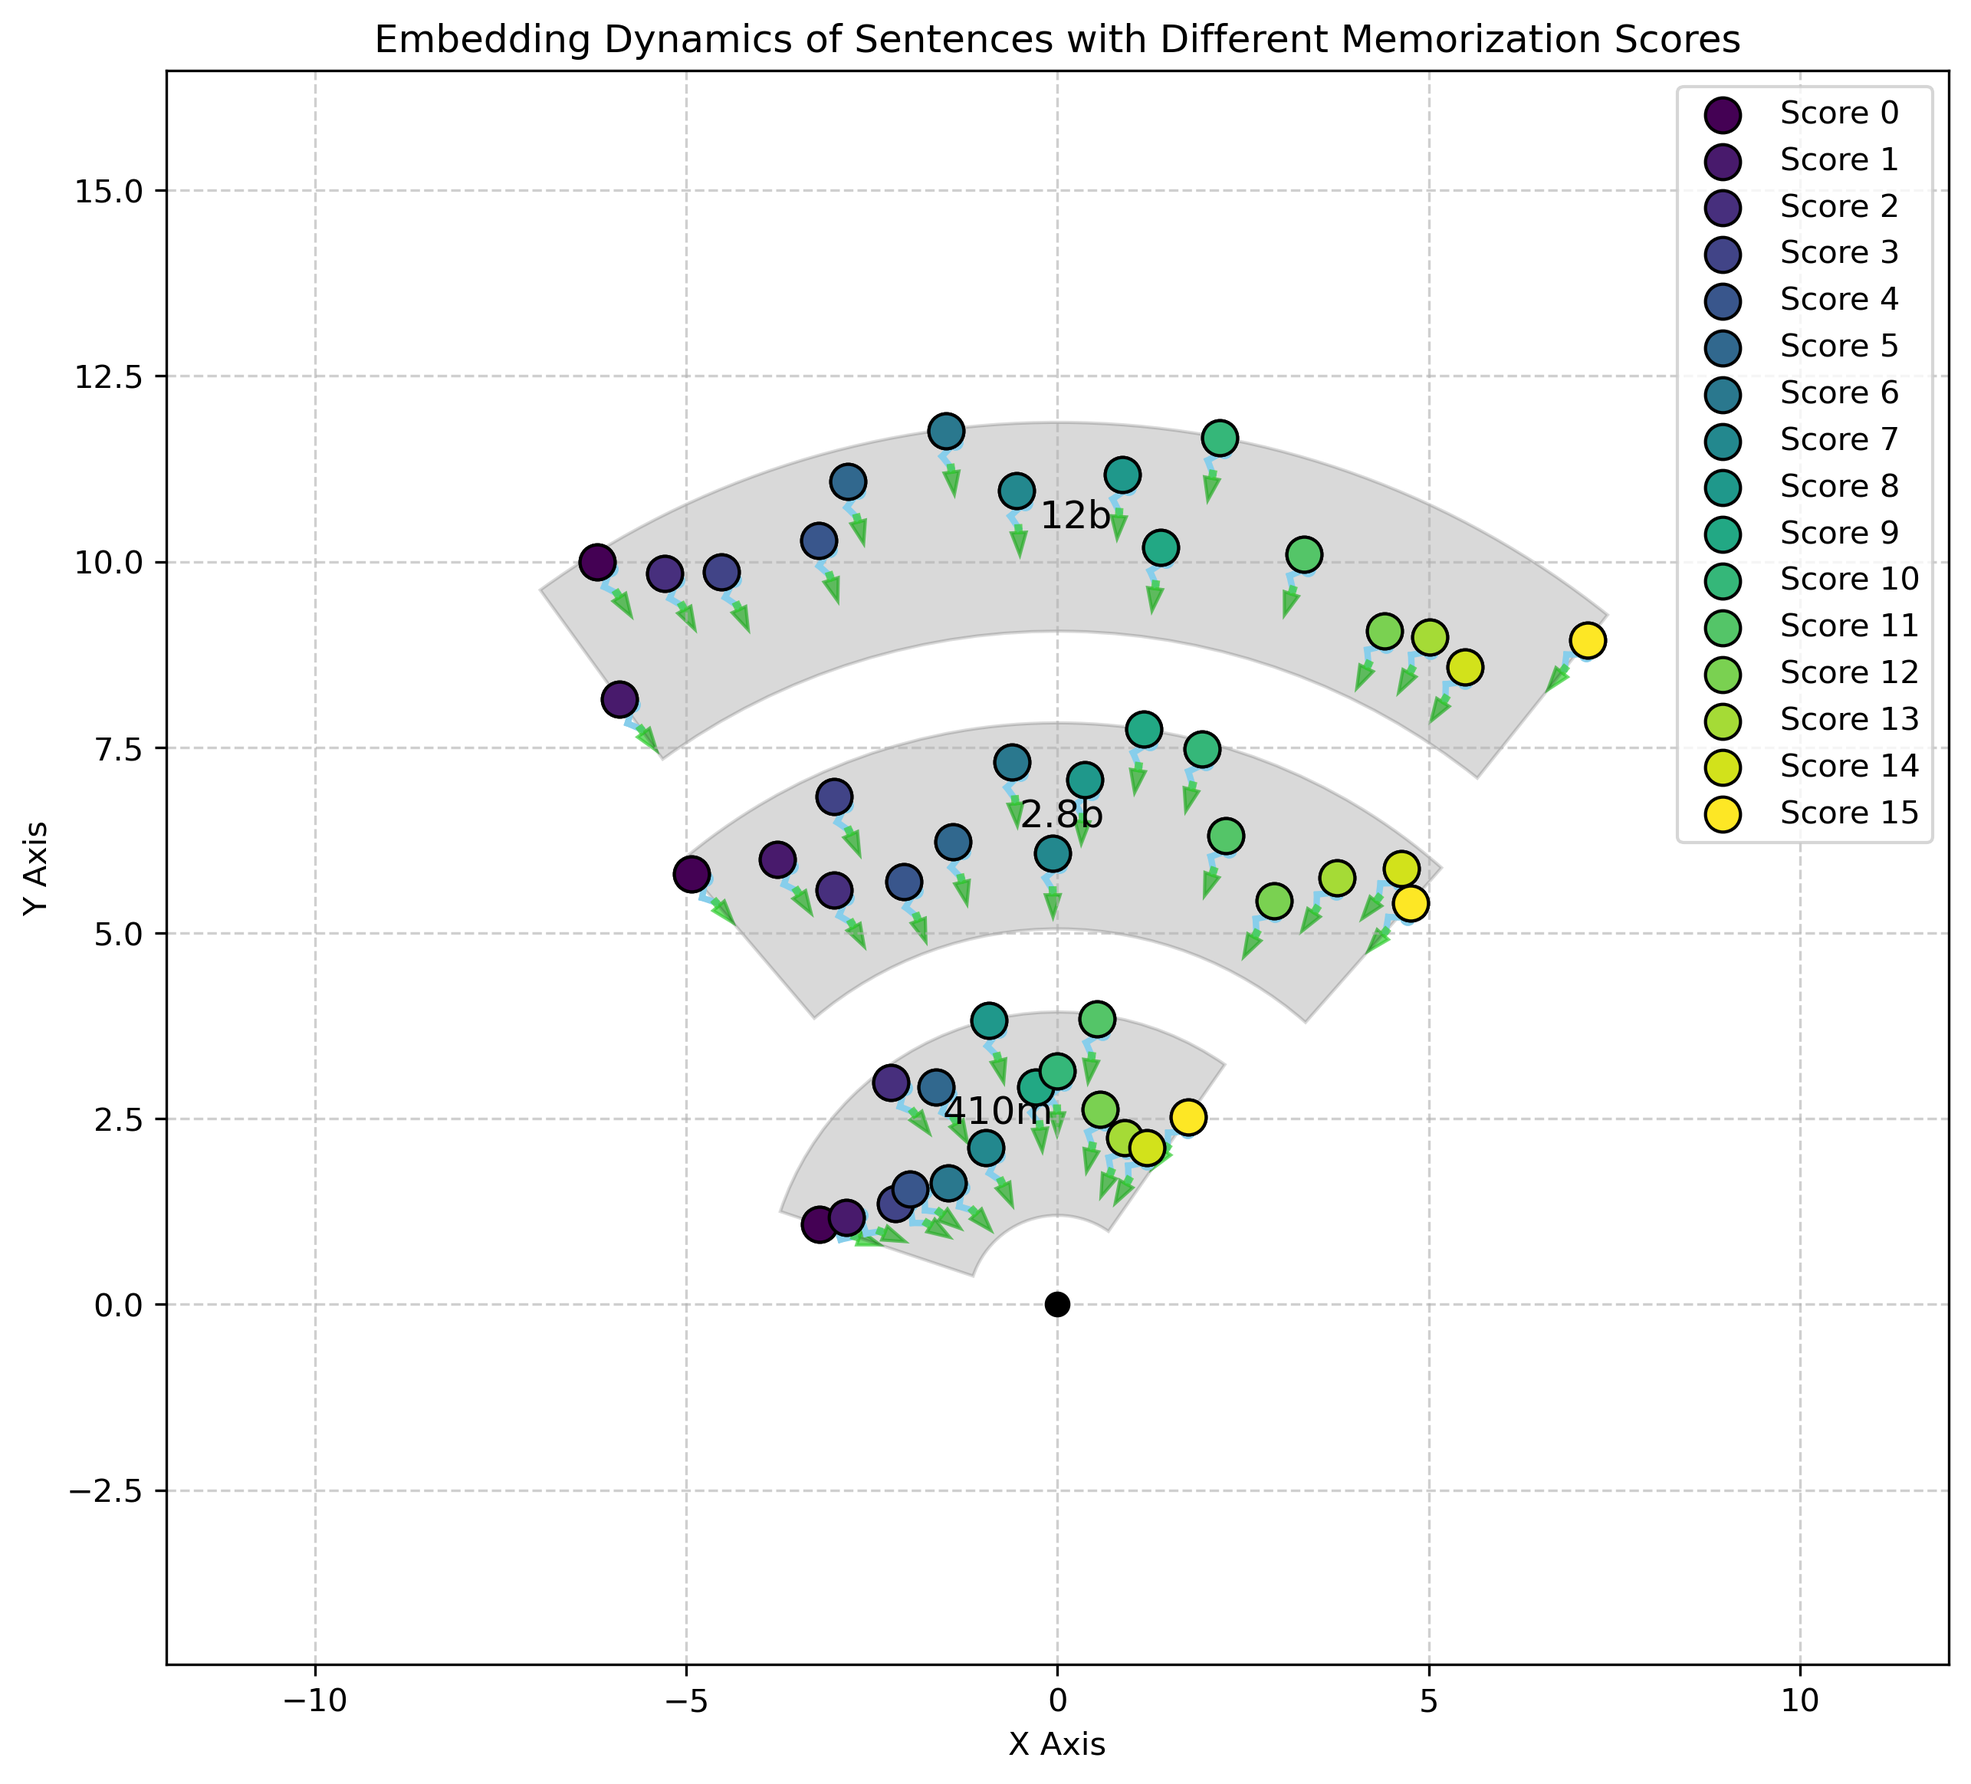
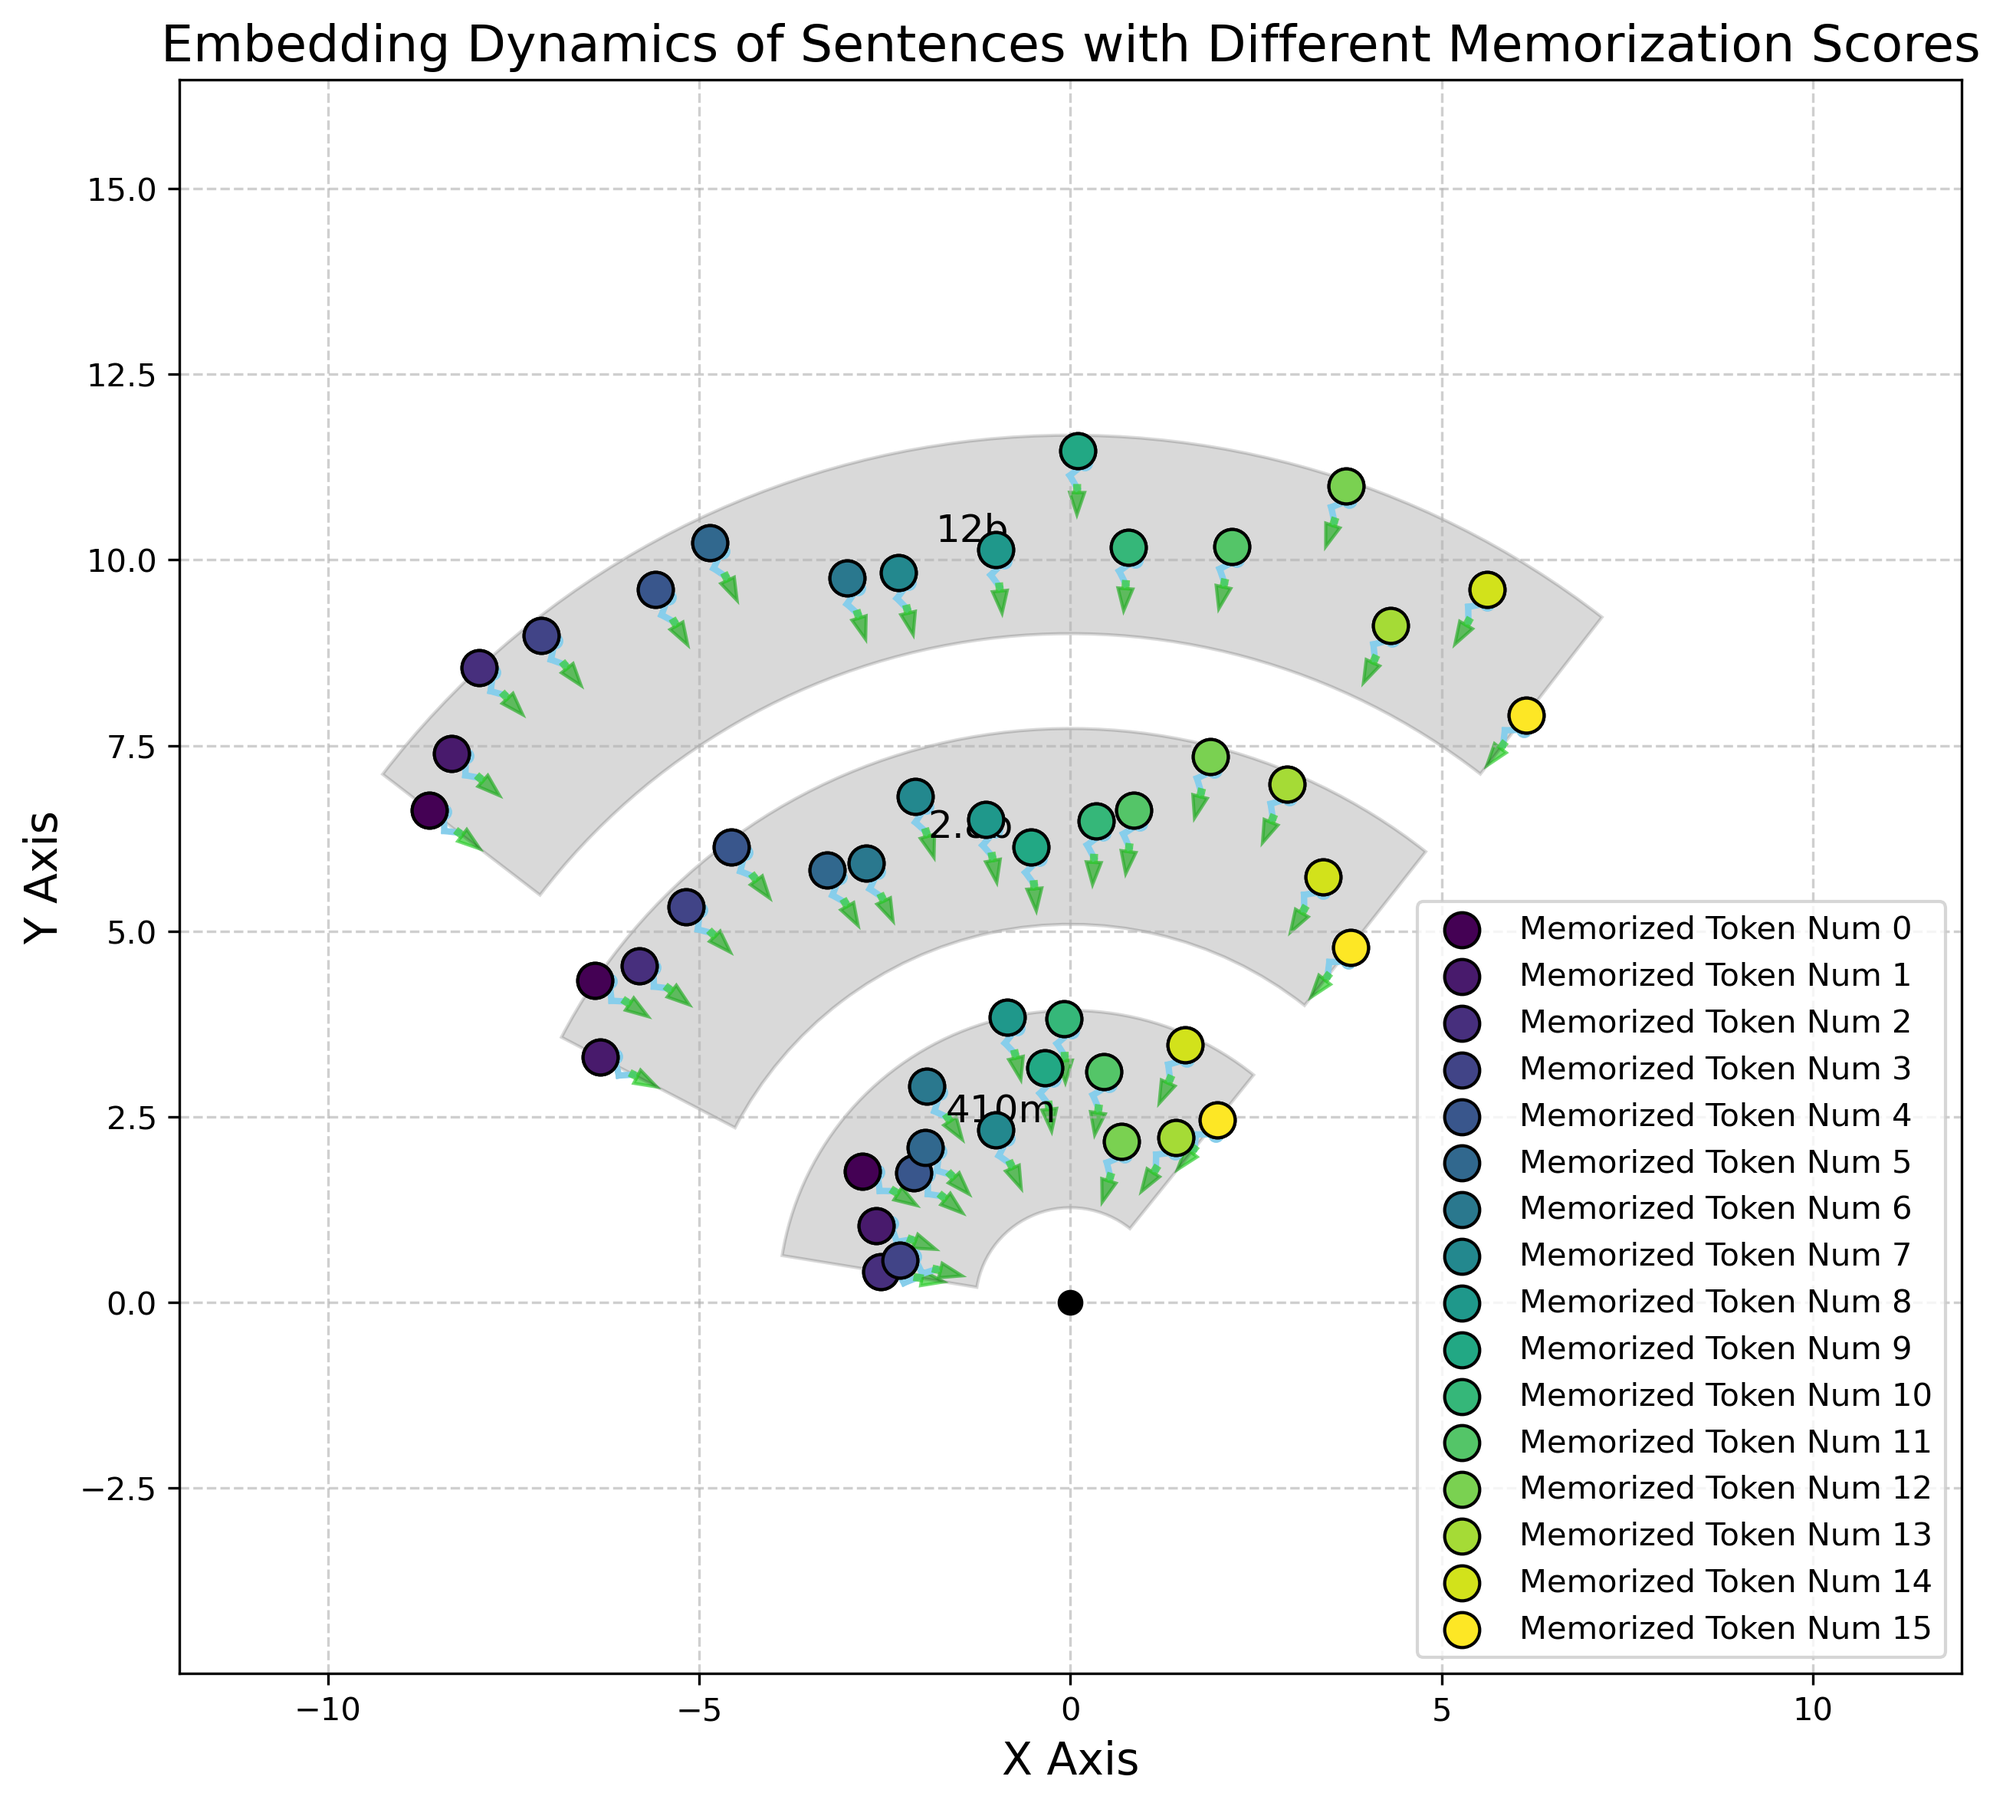
correct file nameg

diff --git a/prediction_inference.py b/prediction_inference.py
@@ -173,42 +173,46 @@ with torch.no_grad():  # Do not calculate gradient since we are only evaluating
         #classificaiton_results = classificaiton_results.float().sum()
 f.close()
 print(memorized_dict)
-#
-# prediction_results = {0.0625: 54, 0.25: 13, 0.375: 16, 0.9375: 27, 0.6875: 22, 0.0: 105, 0.8125: 19, 0.4375: 12,
-#                       0.625: 20, 0.75: 18, 0.1875: 25, 0.875: 25, 0.5625: 9, 0.125: 30, 0.5: 20, 0.3125: 15, 1.0: 1}
-# prediction_results_1b = {0.75: 19, 0.1875: 17, 0.5625: 11, 0.0625: 60, 0.0: 93, 0.3125: 21, 0.9375: 22, 0.125: 28,
-#                          0.4375: 17, 0.875: 29, 0.25: 19, 0.8125: 24, 0.5: 21, 0.625: 19, 0.375: 25, 0.6875: 18, 1.0: 2}
-# prediction_results_70m = {0.5625: 20, 0.8125: 36, 0.0: 131, 0.875: 45, 0.3125: 16, 0.25: 17, 0.75: 35, 0.625: 38,
-#                           0.0625: 76, 0.4375: 20, 0.375: 21, 0.125: 45, 0.6875: 27, 0.5: 24, 0.9375: 59, 1.0: 9,
-#                           0.1875: 18}
-#
-# sorted_keys = sorted(prediction_results)
-#
-# # Normalize the results
-# total_1 = sum(prediction_results.values())
-# total_2 = sum(prediction_results_1b.values())
-# total_3 = sum(prediction_results_70m.values())
-#
-# sorted_values_1 = [prediction_results[key] / total_1 for key in sorted_keys]
-# sorted_values_2 = [prediction_results_1b[key] / total_2 for key in sorted_keys]
-# sorted_values_3 = [prediction_results_70m[key] / total_3 for key in sorted_keys]
-#
-# # Create bar width
-# bar_width = 0.2
-# index = np.arange(len(prediction_results))
-#
-# plt.figure(figsize=[12, 8])
-#
-# plt.bar(index, sorted_values_1, bar_width, color='skyblue', alpha=1, label='2.8b')
-# plt.bar(index + bar_width, sorted_values_2, bar_width, color='orange', alpha=1, label='1b')
-# plt.bar(index + 2 * bar_width, sorted_values_3, bar_width, color='green', alpha=1, label='70m')
-#
-# plt.xlabel('Memorization Score', fontsize=16)
-# plt.xticks(index + bar_width * 2, sorted_keys, rotation=90)  # reposition x-ticks location
-# plt.ylabel('Proportion', fontsize=16)  # Change y label to "Proportion"
-# plt.title('Normalized Full Accuracy Count Distribution over Memorization Score',
-#           fontsize=18)  # Change title to indicate it's normalized
-# plt.legend()
-# plt.grid(True)
-# plt.tight_layout()
-# plt.show()
+
+prediction_results_2_8b = {0.0625: 54, 0.25: 13, 0.375: 16, 0.9375: 27, 0.6875: 22, 0.0: 105, 0.8125: 19, 0.4375: 12,
+                      0.625: 20, 0.75: 18, 0.1875: 25, 0.875: 25, 0.5625: 9, 0.125: 30, 0.5: 20, 0.3125: 15, 1.0: 1}
+prediction_results_1b = {0.75: 19, 0.1875: 17, 0.5625: 11, 0.0625: 60, 0.0: 93, 0.3125: 21, 0.9375: 22, 0.125: 28,
+                         0.4375: 17, 0.875: 29, 0.25: 19, 0.8125: 24, 0.5: 21, 0.625: 19, 0.375: 25, 0.6875: 18, 1.0: 2}
+prediction_results_70m = {0.5625: 20, 0.8125: 36, 0.0: 131, 0.875: 45, 0.3125: 16, 0.25: 17, 0.75: 35, 0.625: 38,
+                          0.0625: 76, 0.4375: 20, 0.375: 21, 0.125: 45, 0.6875: 27, 0.5: 24, 0.9375: 59, 1.0: 9,
+                          0.1875: 18}
+prediction_results_6_9b={0.0: 219, 0.0625: 41, 0.4375: 18, 0.875: 14, 0.5: 17, 0.9375: 24, 0.375: 14, 0.625: 18, 0.5625: 23, 0.75: 12, 0.25: 9, 0.1875: 16, 0.125: 18, 0.6875: 18, 0.3125: 10, 0.8125: 16, 0.875:0, 0.9375:0, 1.0:0}
+sorted_keys = sorted(prediction_results_2_8b)
+
+# Normalize the results
+total_1 = sum(prediction_results_2_8b.values())
+total_2 = sum(prediction_results_1b.values())
+total_3 = sum(prediction_results_70m.values())
+total_4 = sum(prediction_results_6_9b.values())
+
+sorted_values_1 = [prediction_results_2_8b[key] / total_1 for key in sorted_keys]
+sorted_values_2 = [prediction_results_1b[key] / total_2 for key in sorted_keys]
+sorted_values_3 = [prediction_results_70m[key] / total_3 for key in sorted_keys]
+sorted_values_4 = [prediction_results_6_9b[key] / total_4 for key in sorted_keys]
+
+# Create bar width
+bar_width = 0.2
+index = np.arange(len(prediction_results_2_8b))
+
+plt.figure(figsize=[12, 8])
+
+plt.bar(index, sorted_values_3, bar_width, color='skyblue', alpha=1, label='70m')
+plt.bar(index + bar_width, sorted_values_2, bar_width, color='orange', alpha=1, label='1b')
+plt.bar(index + 2 * bar_width, sorted_values_1, bar_width, color='green', alpha=1, label='2.8b')
+plt.bar(index + 3 * bar_width, sorted_values_4, bar_width, color='red',alpha=1, label='6.9b')
+
+plt.xlabel('Memorization Score', fontsize=16)
+plt.xticks(index + bar_width * 3, sorted_keys, rotation=90, fontsize=14)  # reposition x-ticks location
+plt.ylabel('Proportion', fontsize=16)  # Change y label to "Proportion"
+plt.title('Normalized Full Accuracy Count Distribution over Memorization Score',
+          fontsize=18)  # Change title to indicate it's normalized
+plt.legend()
+plt.grid(True)
+plt.tight_layout()
+plt.savefig('normalized_full_accuracy_count_distribution.png', dpi=600)
+plt.show()

diff --git a/embedding_figure.py b/embedding_figure.py
@@ -31,7 +31,7 @@ def label_points(x, y, legend_added):
     cmap = get_cmap('viridis', num_points)  # 使用matplotlib的颜色映射
     colors = [cmap(i) for i in range(num_points)]
     for i, idx in enumerate(indices):
-        label = f'Score {i}'
+        label = f'Memorized Token Num {i}'
         if label not in legend_added:
             plt.scatter(x[idx], y[idx], color=colors[i], s=120, edgecolor='black', label=label, zorder=5)
             legend_added.add(label)
@@ -117,9 +117,9 @@ plt.scatter(0, 0, s=200, color='black', marker='.', zorder=10)
 # plt.axvline(x=0, color='black', linewidth=1)  # 垂直线表示X轴
 # plt.axhline(y=0, color='black', linewidth=1)  # 水平线表示Y轴
 
-plt.title('Embedding Dynamics of Sentences with Different Memorization Scores')
-plt.xlabel('X Axis')
-plt.ylabel('Y Axis')
+plt.title('Embedding Dynamics of Sentences with Different Memorization Scores', fontsize=16)
+plt.xlabel('X Axis', fontsize=14)
+plt.ylabel('Y Axis', fontsize=14)
 plt.legend()
 plt.grid(True, linestyle='--', alpha=0.6)
 plt.axis('equal')

diff --git a/distribution_analysis.py b/distribution_analysis.py
@@ -23,7 +23,7 @@ memorized_entropy_value = []
 half_memorized_entropy_value = []
 unmemorized_entropy_value = []
 #model_size_list = ["70m","410m", "1b", "2.8b", "6.9b", "12b"]
-model_size_list = ["70m","410m", "1b", "2.8b", "6.9b"]
+model_size_list = ["70m","410m", "1b", "2.8b", "6.9b", "12b"]
 for model_size in model_size_list:
     model_name = f"EleutherAI/pythia-{model_size}-deduped-v0"
     CHECKPOINT = 143000
@@ -152,8 +152,8 @@ plt.axvline(x=32, color='blue', linestyle='--')
 plt.text(32+0.3, 2*1e9, 'Decoding\nStart Point', rotation=0, size=12)
 
 plt.legend(loc='best', fontsize='12')
-plt.title('Entropy at Each Token for Memorized and Unmemorized Data',  fontsize=16)
-plt.xlabel('Token Position', fontsize=16)
+plt.title('Entropy at Each Token for Memorized and Unmemorized Data',  fontsize=14)
+plt.xlabel('Token Position', fontsize=14)
 plt.ylabel('Entropy', fontsize=16)
 plt.grid(True, linestyle='--', alpha=0.5)
 plt.tight_layout()

diff --git a/utils.py b/utils.py
@@ -175,7 +175,7 @@ def logits_obtain(dataset, model, idx_list, context_size, continuation_size):
         batched_true_continuation.append(true_continuation)
     context_tokens = torch.tensor(batched_context_tokens).to('cuda')
     true_continuation = torch.tensor(batched_true_continuation).to('cuda')
-    batch_size = 100  # set batch size based on your GPU and model requirements
+    batch_size = 10  # set batch size based on your GPU and model requirements
     highest_entropy_at_idx = []
 
     # process each batch

diff --git a/ngram_analysis.py b/ngram_analysis.py
@@ -218,6 +218,9 @@ size_12b_unmemorized = [1.7532e+09, 1.7599e+09, 1.7556e+09, 1.7798e+09, 1.7592e+
         1.8184e+09, 2.0058e+09, 9.8933e+08, 1.4179e+09, 1.5926e+09, 1.6359e+09,
         1.6431e+09, 1.6992e+09, 1.6792e+09, 1.6948e+09, 1.7172e+09, 1.7213e+09,
         1.6997e+09, 1.7020e+09, 1.7159e+09, 1.6961e+09, 1.7247e+09, 1.6756e+09]
+
+
+
 import numpy as np
 plt.figure(figsize=(12, 12))
 plt.rcParams['axes.labelsize'] = 14
